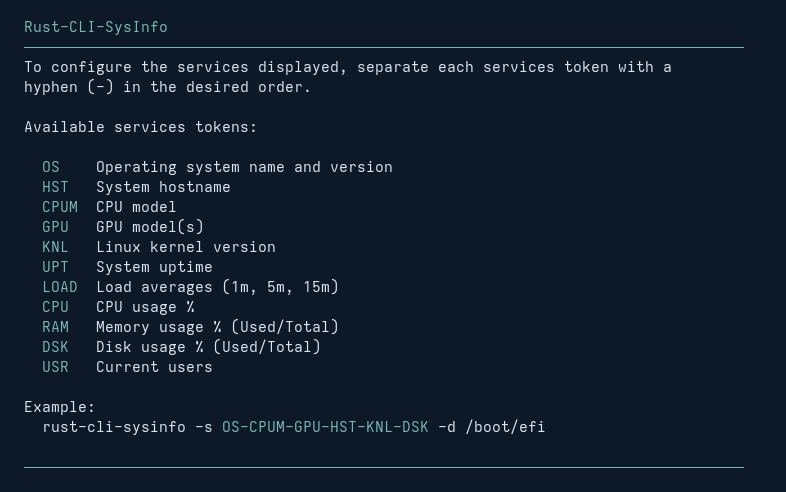
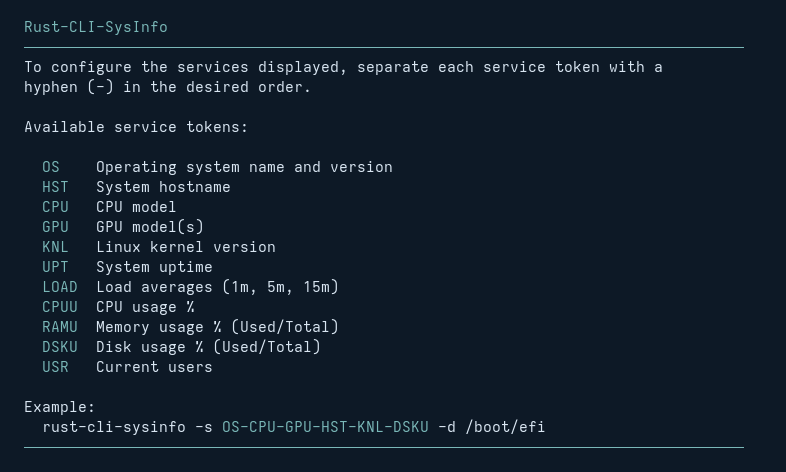
refactor(app): :art: Code clean-up; changed services token identifiers for consistency; updated README

diff --git a/src/slot.rs b/src/slot.rs
@@ -1,11 +1,8 @@
 /// `SlotFilter` represents the three operating modes of the `-s` flag
 pub enum SlotFilter {
-    /// No `-s` flag: render the full default utility output
-    Default,
-    /// `-s` with no argument: render labeled output and exit
-    ShowLabeled,
-    /// `-s TOKENS`: render only the specified slots in the given order
-    Custom(Vec<ServiceSlot>),
+    Default,                  // No `-s` flag: render the full default utility output
+    ShowLabeled,              // `-s` with no argument: render labeled output and exit
+    Custom(Vec<ServiceSlot>), // `-s TOKENS`: render only the specified slots in the given order
 }
 
 /// `ServiceSlot` identifies each service row in the output
@@ -13,14 +10,14 @@ pub enum SlotFilter {
 pub enum ServiceSlot {
     Os,
     Hst,
-    CpuM,
+    Cpu,
     Gpu,
     Knl,
     Upt,
     Load,
-    Cpu,
-    Ram,
-    Dsk,
+    CpuU,
+    RamU,
+    DskU,
     Usr,
 }
 
@@ -32,14 +29,14 @@ impl ServiceSlot {
         match self {
             Self::Os => "OS",
             Self::Hst => "HST",
-            Self::CpuM => "CPUM",
+            Self::Cpu => "CPU",
             Self::Gpu => "GPU",
             Self::Knl => "KNL",
             Self::Upt => "UPT",
             Self::Load => "LOAD",
-            Self::Cpu => "CPU",
-            Self::Ram => "RAM",
-            Self::Dsk => "DSK",
+            Self::CpuU => "CPUU",
+            Self::RamU => "RAMU",
+            Self::DskU => "DSKU",
             Self::Usr => "USR",
         }
     }
@@ -51,14 +48,14 @@ impl ServiceSlot {
         match self {
             Self::Os => "Operating system name and version",
             Self::Hst => "System hostname",
-            Self::CpuM => "CPU model",
+            Self::Cpu => "CPU model",
             Self::Gpu => "GPU model(s)",
             Self::Knl => "Linux kernel version",
             Self::Upt => "System uptime",
             Self::Load => "Load averages (1m, 5m, 15m)",
-            Self::Cpu => "CPU usage %",
-            Self::Ram => "Memory usage % (Used/Total)",
-            Self::Dsk => "Disk usage % (Used/Total)",
+            Self::CpuU => "CPU usage %",
+            Self::RamU => "Memory usage % (Used/Total)",
+            Self::DskU => "Disk usage % (Used/Total)",
             Self::Usr => "Current users",
         }
     }
@@ -67,14 +64,14 @@ impl ServiceSlot {
     pub const ALL: &'static [Self] = &[
         Self::Os,
         Self::Hst,
-        Self::CpuM,
+        Self::Cpu,
         Self::Gpu,
         Self::Knl,
         Self::Upt,
         Self::Load,
-        Self::Cpu,
-        Self::Ram,
-        Self::Dsk,
+        Self::CpuU,
+        Self::RamU,
+        Self::DskU,
         Self::Usr,
     ];
 
@@ -87,7 +84,7 @@ impl ServiceSlot {
             .map(|raw| {
                 let token = raw.trim().to_uppercase();
                 Self::from_token(&token)
-                    .ok_or_else(|| format!("unknown service token '{token}' (run `-s` with no argument to see available tokens)"))
+                    .ok_or_else(|| format!("Unknown service token '{token}' (run `-s` with no argument to see available service tokens)"))
             })
             .collect()
     }
@@ -98,14 +95,14 @@ impl ServiceSlot {
         match token {
             "OS" => Some(Self::Os),
             "HST" => Some(Self::Hst),
-            "CPUM" => Some(Self::CpuM),
+            "CPU" => Some(Self::Cpu),
             "GPU" => Some(Self::Gpu),
             "KNL" => Some(Self::Knl),
             "UPT" => Some(Self::Upt),
             "LOAD" => Some(Self::Load),
-            "CPU" => Some(Self::Cpu),
-            "RAM" => Some(Self::Ram),
-            "DSK" => Some(Self::Dsk),
+            "CPUU" => Some(Self::CpuU),
+            "RAMU" => Some(Self::RamU),
+            "DSKU" => Some(Self::DskU),
             "USR" => Some(Self::Usr),
             _ => None,
         }

diff --git a/src/main.rs b/src/main.rs
@@ -105,14 +105,14 @@ impl Services {
         CollectedData {
             os: active(ServiceSlot::Os).then(|| self.os.collect()),
             hostname: active(ServiceSlot::Hst).then(|| self.hostname.collect()),
-            cpu_model: active(ServiceSlot::CpuM).then(|| self.cpu_model.collect()),
+            cpu_model: active(ServiceSlot::Cpu).then(|| self.cpu_model.collect()),
             gpu: active(ServiceSlot::Gpu).then(|| self.gpu.collect()),
             kernel: active(ServiceSlot::Knl).then(|| self.kernel.collect()),
             uptime: active(ServiceSlot::Upt).then(|| self.uptime.collect()),
             load_avg: active(ServiceSlot::Load).then(|| self.load_avg.collect()),
-            cpu_usage: active(ServiceSlot::Cpu).then(|| self.cpu_usage.collect()),
-            memory: active(ServiceSlot::Ram).then(|| self.memory.collect()),
-            disk: active(ServiceSlot::Dsk).then(|| self.disk.collect()),
+            cpu_usage: active(ServiceSlot::CpuU).then(|| self.cpu_usage.collect()),
+            memory: active(ServiceSlot::RamU).then(|| self.memory.collect()),
+            disk: active(ServiceSlot::DskU).then(|| self.disk.collect()),
             users: active(ServiceSlot::Usr).then(|| self.users.collect()),
         }
     }
@@ -127,7 +127,7 @@ impl Services {
                     self.hostname.render(d, c);
                 });
             }
-            ServiceSlot::CpuM => render_if_ok("CPU model", data.cpu_model.as_ref(), |d| {
+            ServiceSlot::Cpu => render_if_ok("CPU model", data.cpu_model.as_ref(), |d| {
                 self.cpu_model.render(d, c);
             }),
             ServiceSlot::Gpu => render_if_ok("GPU", data.gpu.as_ref(), |d| self.gpu.render(d, c)),
@@ -140,13 +140,13 @@ impl Services {
             ServiceSlot::Load => render_if_ok("Load Average", data.load_avg.as_ref(), |d| {
                 self.load_avg.render(d, c);
             }),
-            ServiceSlot::Cpu => render_if_ok("CPU usage", data.cpu_usage.as_ref(), |d| {
+            ServiceSlot::CpuU => render_if_ok("CPU usage", data.cpu_usage.as_ref(), |d| {
                 self.cpu_usage.render(d, c);
             }),
-            ServiceSlot::Ram => {
+            ServiceSlot::RamU => {
                 render_if_ok("Memory", data.memory.as_ref(), |d| self.memory.render(d, c));
             }
-            ServiceSlot::Dsk => {
+            ServiceSlot::DskU => {
                 render_if_ok("Disk", data.disk.as_ref(), |d| self.disk.render(d, c));
             }
             ServiceSlot::Usr => {
@@ -179,10 +179,10 @@ impl Services {
         println!("\n  {}{}{}\n  {}{}", c.bold, c.cyan, APP_NAME, SEP, c.reset);
 
         println!(
-            "  To configure the services displayed, separate each services token with a\n  hyphen (-) in the desired order.\n"
+            "  To configure the services displayed, separate each service token with a\n  hyphen (-) in the desired order.\n"
         );
 
-        println!("  Available services tokens:\n");
+        println!("  Available service tokens:\n");
 
         // Loop over all services, printing their tokens and descriptions
         for slot in ServiceSlot::ALL {
@@ -197,7 +197,7 @@ impl Services {
         }
 
         println!(
-            "\n  Example:\n    {} -s {}OS-CPUM-GPU-HST-KNL-DSK{} -d /boot/efi\n",
+            "\n  Example:\n    {} -s {}OS-CPU-GPU-HST-KNL-DSKU{} -d /boot/efi",
             env!("CARGO_PKG_NAME"),
             c.cyan,
             c.reset,

diff --git a/src/cli.rs b/src/cli.rs
@@ -28,10 +28,7 @@ impl Opts {
         let mut parser = lexopt::Parser::from_env();
 
         // Parse command-line options
-        while let Some(arg) = parser
-            .next()
-            .unwrap_or_else(|e| fail(&format!("Error: {e}")))
-        {
+        while let Some(arg) = parser.next().unwrap_or_else(|e| fail(&format!("{e}"))) {
             match arg {
                 lexopt::Arg::Short('n') | lexopt::Arg::Long("no-clear") => clear = false,
                 lexopt::Arg::Short('o') | lexopt::Arg::Long("no-color") => color = false,
@@ -109,7 +106,7 @@ fn parse_slot_filter(parser: &mut lexopt::Parser) -> SlotFilter {
 /// `parse_slot_list()` parses a hyphen-separated token string into a `SlotFilter::Custom`
 ///
 fn parse_slot_list(input: &str) -> SlotFilter {
-    let slots = ServiceSlot::parse_list(input).unwrap_or_else(|e| fail(&format!("Error: {e}")));
+    let slots = ServiceSlot::parse_list(input).unwrap_or_else(|e| fail(&e));
     SlotFilter::Custom(slots)
 }
 
@@ -149,8 +146,9 @@ fn print_usage(c: &Colors) {
 /// `fail()` prints an error message with usage instructions and exits
 ///
 fn fail(msg: &str) -> ! {
-    eprintln!("\n{msg}");
-    print_usage(&Colors::new(true));
+    let c = Colors::new(true);
+    eprintln!("\n  {}{}{}", c.red, msg, c.reset);
+    print_usage(&c);
     process::exit(1);
 }
 

diff --git a/README.md b/README.md
@@ -10,47 +10,54 @@
 
 ### The Default RCS Output
 
-The default output of the `rust-cli-sysinfo` utility is shown below:
+The default output of the `rust-cli-sysinfo` utility is shown below. Notice that several of the services are (optionally) displayed in green to indicate their status:
 
 <!-- markdownlint-disable MD033 -->
 <p align="center">
-<img width="650" alt="Screenshot showing Rust CLI Sysinfo output" src="https://raw.githubusercontent.com/richbl/rust-cli-sysinfo/refs/heads/main/.github/assets/rust-cli-sysinfo_output.png">
+<img width="" alt="Screenshot showing Rust CLI Sysinfo output" src="https://raw.githubusercontent.com/richbl/rust-cli-sysinfo/refs/heads/main/.github/assets/rust-cli-sysinfo_output.png">
 </p>
 <!-- markdownlint-enable MD033 -->
 
 ### The RCS Help Output
 
-Calling `rust-cli-sysinfo -h` (or `rust-cli-sysinfo --help`) shows the following help output:
+Calling `rust-cli-sysinfo -h` (or `rust-cli-sysinfo --help`) displays the following help output:
 
 <!-- markdownlint-disable MD033 -->
 <p align="center">
-<img width="650" alt="Screenshot showing Rust CLI Sysinfo output" src="https://raw.githubusercontent.com/richbl/rust-cli-sysinfo/refs/heads/main/.github/assets/rust-cli-sysinfo_help.png">
+<img width="" alt="Screenshot showing Rust CLI Sysinfo output" src="https://raw.githubusercontent.com/richbl/rust-cli-sysinfo/refs/heads/main/.github/assets/rust-cli-sysinfo_help.png">
 </p>
 <!-- markdownlint-enable MD033 -->
 
-### Customizing RCS with Services Tokens
+### Customizing RCS with Service Tokens
 
-One of the more useful features of **Rust-CLI-Sysinfo** is the ability to configure any of the available services tokens. The output of the services tokens display called with `rust-cli-sysinfo -s` (or `rust-cli-sysinfo --services`)is shown below:
+One of the more useful features of **Rust-CLI-Sysinfo** is the ability to configure any of the available services using service tokens. The output of the service tokens display called with `rust-cli-sysinfo -s` (or `rust-cli-sysinfo --services`) is shown below:
 
 <!-- markdownlint-disable MD033 -->
 <p align="center">
-<img width="650" alt="Screenshot showing Rust CLI Sysinfo output" src="https://raw.githubusercontent.com/richbl/rust-cli-sysinfo/refs/heads/main/.github/assets/rust-cli-sysinfo_tokens.png">
+<img width="" alt="Screenshot showing Rust CLI Sysinfo output" src="https://raw.githubusercontent.com/richbl/rust-cli-sysinfo/refs/heads/main/.github/assets/rust-cli-sysinfo_tokens.png">
 </p>
 <!-- markdownlint-enable MD033 -->
 
 #### A Customized RCS Output
 
-The following screenshot shows the output of **Rust-CLI-Sysinfo** when configured with services tokens. In the screenshot below, **Rust-CLI-Sysinfo** has been configured logged-in users, OS name/version, memory usage, disk usage, CPU details, and GPU(s) details.
+The following screenshot shows the output of **Rust-CLI-Sysinfo** when configured with service tokens. In the screenshot below, **Rust-CLI-Sysinfo** has been configured to display only the following services:
 
-The command used to generate this output is `rust-cli-sysinfo -s USR-OS-RAM-DSK-CPUM-GPU`.
+- Users currently logged into the system
+- OS name/version
+- Memory usage
+- Disk usage
+- CPU details
+- GPU(s) details
+
+The command used to generate this output is `rust-cli-sysinfo -s USR-OS-RAMU-DSKU-CPU-GPU`.
 
 <!-- markdownlint-disable MD033 -->
 <p align="center">
-<img width="650" alt="Screenshot showing Rust CLI Sysinfo output" src="https://raw.githubusercontent.com/richbl/rust-cli-sysinfo/refs/heads/main/.github/assets/rust-cli-sysinfo_tokens_output.png">
+<img width="" alt="Screenshot showing Rust CLI Sysinfo output" src="https://raw.githubusercontent.com/richbl/rust-cli-sysinfo/refs/heads/main/.github/assets/rust-cli-sysinfo_tokens_output.png">
 </p>
 <!-- markdownlint-enable MD033 -->
 
-## Features
+## RCS Features
 
 - Displays the status of various system services, including:
     - Linux distribution name and version
@@ -62,10 +69,10 @@ The command used to generate this output is `rust-cli-sysinfo -s USR-OS-RAM-DSK-
     - System load average (over 1, 5, and 15 minutes)
     - CPU usage
     - Memory usage
-    - Disk usage (defaults to `/home`, but can be overridden with the `-d/--disk` flag)
+    - Disk usage (defaults to `/home`, but can be configured with the `-d/--disk` flag)
     - Users currently logged into the system
 
-- Configurable services tokens, allowing users to choose which services to display, and the order in which they should be displayed
+- Configurable service tokens, allowing users to choose which services to display, and the order in which they should be displayed
 
 - Color status indicators for CPU, memory, and disk usage, with threshold levels represented by:
     - Normal (green)
@@ -73,10 +80,10 @@ The command used to generate this output is `rust-cli-sysinfo -s USR-OS-RAM-DSK-
     - Critical (red)
 
 - Display configuration options, including:
-    - `--no-color`: Disable colored status indicators in the output
-    - `--no-clear`: Disable clearing the screen before running the utility
+    - `--no-color`: disable colored status indicators in the output
+    - `--no-clear`: disable clearing the screen before running the utility
 
-- Designed explicitly without the need for an external configuration file: configure everything with command line flags
+- Developed explicitly without the need for an external configuration file: configure everything with command line flags
 
 - This is a Linux-only utility, designed to be lightweight and efficient, relying on native system calls and libraries
     - No external dependencies
@@ -85,19 +92,17 @@ The command used to generate this output is `rust-cli-sysinfo -s USR-OS-RAM-DSK-
 
 ## Rationale
 
-- The goal of **Rust-CLI-Sysinfo** is to create a simple, efficient, and modular terminal-based utility for presenting the status of various system services in Linux.
+- The goal of **Rust-CLI-Sysinfo** is to create a simple, efficient, and modular terminal-based utility for presenting the status of various system services in Linux
 
 ## Requirements
 
 - **Rust-CLI-Sysinfo** is designed to run natively on Linux systems, with no other requirements
 
-  However, since **Rust-CLI-Sysinfo** is built using Rust, if you want to build this application from project sources, you'll need to have Rust installed on your system.
+However, if you prefer to build **Rust-CLI-Sysinfo* from project sources, you'll need to have Rust installed on your system.
 
 ## Installation
 
-Simply copy the binary from the latest release to your system (e.g., `/usr/local/bin` or `/home/[user]/.local/bin`). You can find the latest release on the [GitHub releases page](https://github.com/richbl/rust-cli-sysinfo/releases).
-
-> Note: If installing into `/home/[user]/.local/bin`, make sure to add that directory to your `PATH` environment variable if it's not already added.
+Simply copy the `rust-cli-sysinfo` binary from the latest release to your system (e.g., `/usr/local/bin` or `/home/[user]/.local/bin`). You can find the latest release on the [GitHub releases page](https://github.com/richbl/rust-cli-sysinfo/releases).
 
 ### Building the RCS Project from Sources
 
@@ -107,9 +112,9 @@ Simply copy the binary from the latest release to your system (e.g., `/usr/local
     cargo build --release --bin rust-cli-sysinfo
     ```
 
-2. Then, copy the resulting binary from `target/release/rust-cli-sysinfo` to your desired location (e.g., `/usr/local/bin` or `/home/[user]/.local/bin`).
+2. Copy the resulting binary from `target/release/rust-cli-sysinfo` to your desired location (e.g., `/usr/local/bin` or `/home/[user]/.local/bin`)
 
-That's it. You can now run the application by executing `rust-cli-sysinfo` in your terminal.
+3. That's it. You can now run the application by executing `rust-cli-sysinfo` in your terminal
 
 ## Usage
 
@@ -119,10 +124,10 @@ That's it. You can now run the application by executing `rust-cli-sysinfo` in yo
 
 ### Running in a New Terminal Session
 
-I've added a call to `rust-cli-sysinfo` in my `.bashrc` file, so it runs every time I open a new terminal session.
+I've added a call to `rust-cli-sysinfo` in my `.bashrc` file, so it runs every time I open a new terminal window.
 
-> This is precisely the use case that I had in mind when I created this project.
+> This is precisely the use case that I had in mind when I created this project. It's a quick way to get an overview of the status of various system services without having to run various CLI commands or run separate system utilities.
 
 ## Roadmap
 
-In general, this is pretty simple executable doing some pretty basic stuff. But if you have any thoughts or ideas for improvement, send them my way.
+In general, this is a pretty simple executable doing some pretty basic stuff. But if you have any thoughts or ideas for improvements, send them my way.